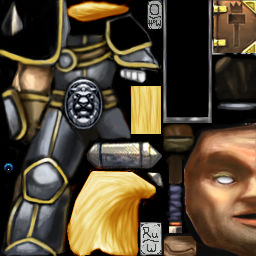
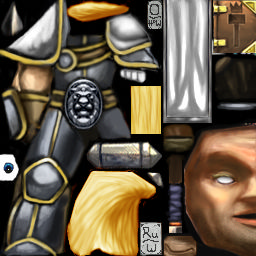
blp decode 2

diff --git a/src/read.rs b/src/read.rs
@@ -1,3 +1,4 @@
+use crate::decode_bgra_jpeg::jpeg_get_alpha;
 use crate::header::Header;
 use crate::texture_type::TextureType;
 use byteorder::{LittleEndian, ReadBytesExt};
@@ -10,27 +11,23 @@ pub fn convert_blp_to_rgba_image(buf: &[u8]) -> Result<RgbaImage, Box<dyn Error 
     let header = Header::parse(&mut cursor)?;
     println!("{:#?}", header);
 
-    // Проверяем тип текстуры
     if header.texture_type != TextureType::JPEG {
         return Err("Only JPEG-encoded BLP is supported in this function".into());
     }
 
-    // Проверяем текущую позицию
     let current_pos = cursor.position();
     if current_pos != 156 {
         println!("Warning: unexpected cursor position, got {}", current_pos);
     }
 
-    // Читаем JPEG header chunk
     let jpeg_header_size = cursor.read_u32::<LittleEndian>()? as usize;
     let mut jpeg_header_chunk = vec![0u8; jpeg_header_size];
     cursor.read_exact(&mut jpeg_header_chunk)?;
 
-    // Переменные для проверки покрытия файла
+    // Проверка покрытия всех мипмапов
     let mut max_covered = cursor.position() as usize;
-
-    // Обработка всех мипмапов
     let mut decoded_levels = 0;
+
     for i in 0..16 {
         let offset = header.mipmap_offsets[i] as usize;
         let length = header.mipmap_lengths[i] as usize;
@@ -65,7 +62,7 @@ pub fn convert_blp_to_rgba_image(buf: &[u8]) -> Result<RgbaImage, Box<dyn Error 
         println!("⚠ File has trailing data: {} bytes", buf.len() - max_covered);
     }
 
-    // Декодируем mipmap[0]
+    // Основной мипмап
     let offset = header.mipmap_offsets[0] as usize;
     let length = header.mipmap_lengths[0] as usize;
 
@@ -78,17 +75,22 @@ pub fn convert_blp_to_rgba_image(buf: &[u8]) -> Result<RgbaImage, Box<dyn Error 
     full_jpeg.extend_from_slice(&jpeg_header_chunk);
     full_jpeg.extend_from_slice(jpeg_chunk);
 
-    let dyn_img = image::ImageReader::with_format(Cursor::new(full_jpeg), ImageFormat::Jpeg)
+    // RGB (из обычного JPEG)
+    let mut rgb = image::ImageReader::with_format(Cursor::new(&full_jpeg), ImageFormat::Jpeg)
         .decode()
-        .map_err(|e| format!("JPEG decode failed: {}", e))?;
+        .map_err(|e| format!("JPEG decode failed: {}", e))?
+        .into_rgba8();
 
-    let mut rgba = dyn_img.into_rgba8();
+    let alpha = jpeg_get_alpha(&full_jpeg)?;
 
-    for pixel in rgba.pixels_mut() {
-        let r = pixel[0];
-        pixel[0] = pixel[2];
-        pixel[2] = r;
+    // BGR → RGB
+    for pixel in rgb.pixels_mut() {
+        pixel.0.swap(0, 2);
     }
 
-    Ok(rgba)
+    for (dst, src) in rgb.pixels_mut().zip(alpha.pixels()) {
+        dst.0 = [dst.0[0], dst.0[1], dst.0[2], dst.0[3].saturating_sub(src.0[3])];
+    }
+
+    Ok(rgb)
 }

diff --git a/src/decode_bgra_jpeg.rs b/src/decode_bgra_jpeg.rs
@@ -1,0 +1,31 @@
+use image::RgbaImage;
+use std::error::Error;
+use std::io::Cursor;
+
+pub fn jpeg_get_alpha(data: &[u8]) -> Result<RgbaImage, Box<dyn Error + Send + Sync>> {
+    let mut decoder = jpeg_decoder::Decoder::new(Cursor::new(data));
+    decoder.read_info()?;
+
+    let metadata = decoder
+        .info()
+        .ok_or("Missing JPEG metadata")?;
+    let mut pixels = decoder.decode()?;
+
+    let expected = metadata.width as usize * metadata.height as usize * 4;
+    if pixels.len() == expected {
+        // BGRA → RGBA
+        let mut rgba = RgbaImage::new(metadata.width.into(), metadata.height.into());
+        for (i, pixel) in rgba.pixels_mut().enumerate() {
+            let idx = i * 4;
+            *pixel = image::Rgba([
+                pixels[idx + 2], // R
+                pixels[idx + 1], // G
+                pixels[idx + 0], // B
+                pixels[idx + 3], // A
+            ]);
+        }
+        Ok(rgba)
+    } else {
+        Err("JPEG does not contain BGRA data (only RGB present)".into())
+    }
+}

diff --git a/src/main.rs b/src/main.rs
@@ -4,6 +4,7 @@ pub mod header;
 pub mod read;
 mod texture_type;
 pub mod version;
+mod decode_bgra_jpeg;
 
 use crate::read::convert_blp_to_rgba_image;
 use image::{ImageFormat, RgbaImage};
